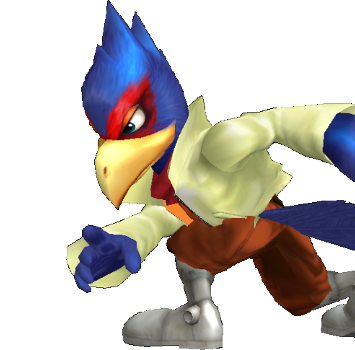
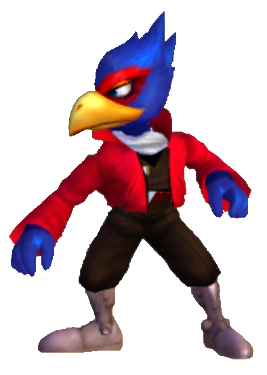
Updated Pictures, Bigger pictures for singles.

diff --git a/client/index.html b/client/index.html
@@ -119,7 +119,7 @@
 					Game Logo <input type='file' id='gameLogoFile' onchange='handleGame(this)' />
 					<br />
 					Stream Logo <input type='file' id='streamLogoFile' onchange='handleStream(this)' />
-					<input type='button' id="defaultStreamLogoBtn" value='Default Stream Logo' onclick='drawLogo("/images/stream/cks.png", "stream", document.getElementById("previewCanvas"));' />
+					<input type='button' id="defaultStreamLogoBtn" value='Default Stream Logo' onclick='drawLogo("/images/stream/cksbold.png", "stream", document.getElementById("previewCanvas"));' />
 					<br />
 					<hr />
 				</form>

diff --git a/server/public/scripts/config.js b/server/public/scripts/config.js
@@ -4,7 +4,7 @@ var p2x = null; var p2y = 50;
 var p3x = null; var p3y = 50;
 var p4x = null; var p4y = 50;
 
-var xOffset = 70;
+var xOffset = 120;
 var yOffset = 15;
 
 var getCharacterCoordinates = function(canvas, image, characterNumber){
@@ -15,7 +15,7 @@ var getCharacterCoordinates = function(canvas, image, characterNumber){
 		p1y = canvas.height - image.height + yOffset;
 		return {x:p1x, y:p1y};
 	case 2:
-		p2x = canvas.width/2 + xOffset/2;
+		p2x = canvas.width/2;
 		p2y = canvas.height - image.height + yOffset;
 		return {x:p2x, y:p2y};
 	case 3:

diff --git a/server/public/scripts/canvasEvents.js b/server/public/scripts/canvasEvents.js
@@ -97,7 +97,7 @@ $('#roundColor').change(function(){
 
 $('#defaultStreamLogo').click(function(){
 	var canvas = document.getElementById('previewCanvas');	
-	streamLogo = '/images/stream/cks.png';
+	streamLogo = '/server/images/stream/cksbold.png';
 	drawLogo(streamLogo, 'stream', canvas);
 });
 

diff --git a/server/public/scripts/canvasImpl.js b/server/public/scripts/canvasImpl.js
@@ -265,7 +265,7 @@ function drawCharacter(imgPath, charNumber){
 	var img = new Image();
 	var width = 0, height = 0;
 	var yDiff = 0, xDiff = 0;
-	var enhance = 1.15;
+	var enhance = 1.5;
 	var reduce = .9;
 	img.src = imgPath;
 	img.onload = function(){
